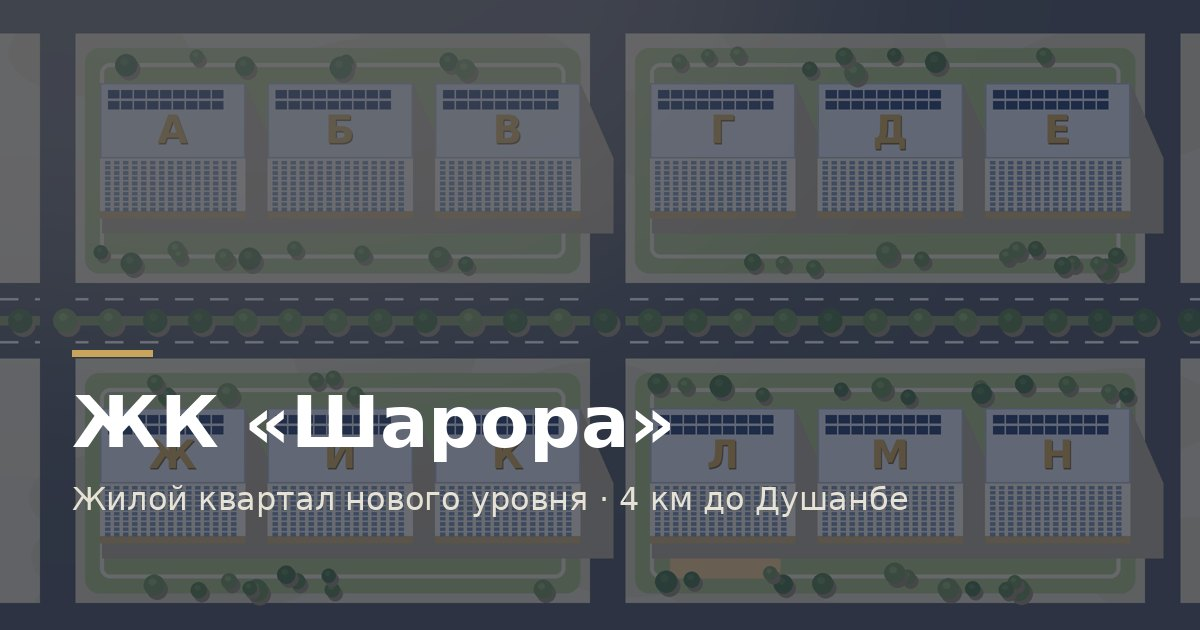
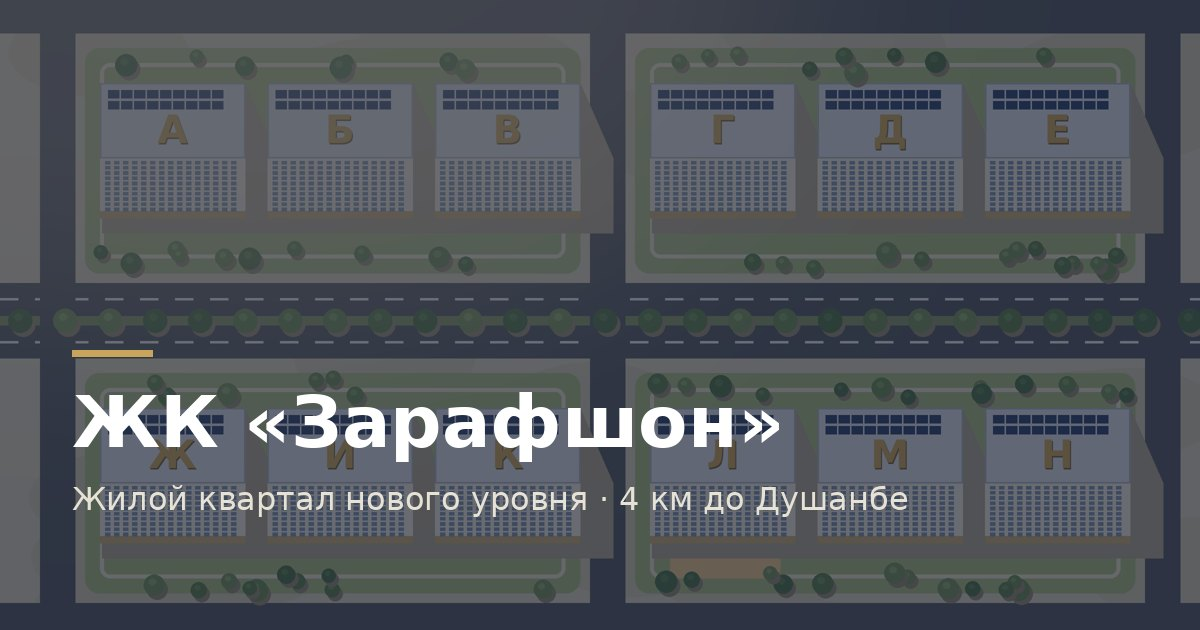
Rename brand Sharora to Zarafshon

Changed region(s): [[0.2467, 0.6032, 0.6475, 0.754]]

diff --git a/frontend/src/content/site.ts b/frontend/src/content/site.ts
@@ -29,8 +29,8 @@ export type FeatureIcon =
 
 export const site = {
   brand: {
-    name: "Sharora Sokhtmon",
-    project: { ru: "ЖК «Шарора»", tg: "МИ «Шарора»" } satisfies Localized,
+    name: "Zarafshon Sokhtmon",
+    project: { ru: "ЖК «Зарафшон»", tg: "МИ «Зарафшон»" } satisfies Localized,
     logo: "/logo.svg",
   },
 
@@ -48,8 +48,8 @@ export const site = {
     telegram: "https://t.me/+992206431001", // TODO: replace with the company's Telegram username
     hours: { ru: "Пн–Сб, 9:00–18:00", tg: "Дш–Шн, 9:00–18:00" } satisfies Localized,
     greeting: {
-      ru: "Здравствуйте! Хочу узнать о квартирах в ЖК «Шарора».",
-      tg: "Ассалому алейкум! Мехоҳам дар бораи хонаҳои МИ «Шарора» маълумот гирам.",
+      ru: "Здравствуйте! Хочу узнать о квартирах в ЖК «Зарафшон».",
+      tg: "Ассалому алейкум! Мехоҳам дар бораи хонаҳои МИ «Зарафшон» маълумот гирам.",
     } satisfies Localized,
     /** `{unit}` → "Хонаи 2, Блок А, Этаж 2, 89.70 м²" */
     unitGreeting: {
@@ -84,7 +84,7 @@ export const site = {
   },
 
   hero: {
-    eyebrow: { ru: "Sharora Sokhtmon · Шарора" } satisfies Localized,
+    eyebrow: { ru: "Zarafshon Sokhtmon · Зарафшон" } satisfies Localized,
     badge: {
       ru: "Новый жилой квартал · 4 км от Душанбе",
       tg: "Маҳаллаи нави истиқоматӣ · 4 км аз Душанбе",
@@ -107,7 +107,7 @@ export const site = {
     // TODO(client): renders from the design mock-up — replace with the project's own visuals.
     image: "/renders/hero.jpg",
     imageAlt: {
-      ru: "Вечерний вид на жилые блоки комплекса «Шарора» на фоне гор",
+      ru: "Вечерний вид на жилые блоки комплекса «Зарафшон» на фоне гор",
     } satisfies Localized,
     facts: [
       {
@@ -161,7 +161,7 @@ export const site = {
     ] satisfies Localized[],
     image: "/renders/about.jpg",
     imageAlt: {
-      ru: "Двор с фонтаном и фасады жилых блоков комплекса «Шарора»",
+      ru: "Двор с фонтаном и фасады жилых блоков комплекса «Зарафшон»",
     } satisfies Localized,
     developerLabel: { ru: "Застройщик", tg: "Сохтмончӣ" } satisfies Localized,
     safety: { ru: "Безопасность", tg: "Амният" } satisfies Localized,
@@ -190,7 +190,7 @@ export const site = {
     } satisfies Localized,
     image: "/renders/masterplan.jpg",
     imageAlt: {
-      ru: "Генеральный план ЖК «Шарора»: 12 жилых блоков с буквами на крышах",
+      ru: "Генеральный план ЖК «Зарафшон»: 12 жилых блоков с буквами на крышах",
     } satisfies Localized,
     // Marker positions in percent of the image; must match the letters on the roofs.
     blocks: [
@@ -416,8 +416,8 @@ export const site = {
       ru: "Комплекс находится в посёлке Шарора — в спокойном районе с быстрым выездом к Душанбе.",
     } satisfies Localized,
     route: { ru: "Построить маршрут", tg: "Масир сохтан" } satisfies Localized,
-    mapTitle: { ru: "Карта расположения ЖК «Шарора»" } satisfies Localized,
-    pinLabel: { ru: "ЖК «Шарора»", tg: "МИ «Шарора»" } satisfies Localized,
+    mapTitle: { ru: "Карта расположения ЖК «Зарафшон»" } satisfies Localized,
+    pinLabel: { ru: "ЖК «Зарафшон»", tg: "МИ «Зарафшон»" } satisfies Localized,
     routeNote: {
       ru: "Быстрый выезд к городской инфраструктуре",
       tg: "Роҳи зуд ба инфрасохтори шаҳр",
@@ -427,8 +427,8 @@ export const site = {
   cta: {
     badge: { ru: "Персональная консультация", tg: "Машварати шахсӣ" } satisfies Localized,
     title: {
-      ru: "Найдите свою квартиру в «Шарора»",
-      tg: "Хонаи худро дар «Шарора» ёбед",
+      ru: "Найдите свою квартиру в «Зарафшон»",
+      tg: "Хонаи худро дар «Зарафшон» ёбед",
     } satisfies Localized,
     text: {
       ru: "Выберите блок, этаж и планировку онлайн — или оставьте номер, и менеджер подберёт варианты и расскажет об условиях рассрочки.",
@@ -458,8 +458,8 @@ export const site = {
 
   footer: {
     rights: {
-      ru: "© 2026 Sharora Sokhtmon. Все права защищены.",
-      tg: "© 2026 Sharora Sokhtmon. Ҳамаи ҳуқуқҳо ҳифз шудаанд.",
+      ru: "© 2026 Zarafshon Sokhtmon. Все права защищены.",
+      tg: "© 2026 Zarafshon Sokhtmon. Ҳамаи ҳуқуқҳо ҳифз шудаанд.",
     } satisfies Localized,
     sections: { ru: "Разделы", tg: "Бахшҳо" } satisfies Localized,
     contacts: { ru: "Контакты", tg: "Тамос" } satisfies Localized,
@@ -488,8 +488,8 @@ export const site = {
 
   seo: {
     title: {
-      ru: "ЖК «Шарора» — жилой квартал нового уровня",
-      tg: "МИ «Шарора»",
+      ru: "ЖК «Зарафшон» — жилой квартал нового уровня",
+      tg: "МИ «Зарафшон»",
     } satisfies Localized,
     description: {
       ru: "12 жилых блоков в посёлке Шарора, 4 км до Душанбе: подземный паркинг, детский сад, торговые центры, солнечные панели и собственная котельная. Выбор квартиры онлайн.",

diff --git a/frontend/src/app/[locale]/admin/login/page.tsx b/frontend/src/app/[locale]/admin/login/page.tsx
@@ -16,7 +16,7 @@ export default function AdminLoginPage() {
         />
         <div className="absolute inset-0 bg-gradient-to-t from-ink via-ink/30 to-ink/40" />
         <div className="absolute right-12 bottom-12 left-12 text-white">
-          <p className="eyebrow text-gold">Sharora Sokhtmon · Residence</p>
+          <p className="eyebrow text-gold">Zarafshon Sokhtmon · Residence</p>
           <p className="mt-4 max-w-md font-display text-4xl leading-tight font-extrabold tracking-tight">
             Управление продажами квартала
           </p>

diff --git a/frontend/src/app/globals.css b/frontend/src/app/globals.css
@@ -1,13 +1,13 @@
 @import "tailwindcss";
 
 /* ------------------------------------------------------------------
-   Sharora design tokens
+   Zarafshon design tokens
    One palette, one radius scale, one shadow system. Components only
    reference these tokens — never raw hex values.
    ------------------------------------------------------------------ */
 
 @theme {
-  /* Navy & champagne-gold palette (Sharora Residence design) */
+  /* Navy & champagne-gold palette (Zarafshon Residence design) */
   --color-ink: #131b2e;
   --color-night: #0a0f1c;
   --color-navy: #1c2641;

diff --git a/frontend/src/components/admin/LoginForm.tsx b/frontend/src/components/admin/LoginForm.tsx
@@ -40,7 +40,9 @@ export function LoginForm() {
           <Image src="/logo.svg" alt="" width={38} height={38} unoptimized />
         </span>
         <div>
-          <p className="font-display text-lg font-extrabold tracking-[0.16em] uppercase">Шарора</p>
+          <p className="font-display text-lg font-extrabold tracking-[0.16em] uppercase">
+            Зарафшон
+          </p>
           <p className="eyebrow text-muted">Кабинет менеджера</p>
         </div>
       </div>

diff --git a/frontend/src/components/motion/Cursor.tsx b/frontend/src/components/motion/Cursor.tsx
@@ -6,7 +6,7 @@ import { useEffect, useRef } from "react";
 import { hasFinePointer, prefersReducedMotion } from "@/lib/capabilities";
 import { gsap } from "@/lib/gsap";
 
-export const CURSOR_EVENT = "sharora:cursor";
+export const CURSOR_EVENT = "zarafshon:cursor";
 /** Lets non-DOM targets (the 3D scene) drive the cursor: `setCursor("view")` / `setCursor(null)`. */
 export function setCursor(mode: "view" | "hover" | null) {
   window.dispatchEvent(new CustomEvent(CURSOR_EVENT, { detail: mode }));

diff --git a/frontend/src/components/layout/Footer.tsx b/frontend/src/components/layout/Footer.tsx
@@ -23,7 +23,7 @@ export async function Footer() {
         aria-hidden
         className="pointer-events-none absolute right-0 -bottom-[0.18em] left-0 text-center font-display text-[22vw] leading-none font-extrabold tracking-tighter text-white/[0.025] select-none"
       >
-        ШАРОРА
+        ЗАРАФШОН
       </p>
 
       <div className="relative container-page grid gap-12 py-16 md:grid-cols-2 lg:grid-cols-[1.3fr_0.8fr_1fr_1fr] lg:py-24">

diff --git a/frontend/src/components/motion/Preloader.tsx b/frontend/src/components/motion/Preloader.tsx
@@ -30,7 +30,7 @@ export function Preloader() {
               <path className="pl-draw" pathLength={1} d="M108 92h104" stroke="#FFDEA4" />
             </g>
             <text x="160" y="132" textAnchor="middle" className="pl-text">
-              ШАРОРА
+              ЗАРАФШОН
             </text>
             <circle className="pl-spark" cx="92" cy="122" r="3" fill="#FFE7B0" />
           </svg>

diff --git a/frontend/src/components/layout/FeedbackMenu.tsx b/frontend/src/components/layout/FeedbackMenu.tsx
@@ -10,7 +10,7 @@ import { site, tr } from "@/content/site";
 import type { Locale } from "@/i18n/routing";
 import { cn } from "@/lib/cn";
 
-export const FEEDBACK_OPEN_EVENT = "sharora:feedback-open";
+export const FEEDBACK_OPEN_EVENT = "zarafshon:feedback-open";
 const OPEN_EVENT = FEEDBACK_OPEN_EVENT;
 
 /** Opens the floating feedback menu from anywhere (e.g. the footer button). */

diff --git a/frontend/src/components/three/CityParts.tsx b/frontend/src/components/three/CityParts.tsx
@@ -17,7 +17,7 @@ import {
 } from "./layout";
 import { getTextures } from "./textures";
 
-const FONT_URL = "/fonts/sharora-letters.typeface.json";
+const FONT_URL = "/fonts/zarafshon-letters.typeface.json";
 const GOLD = "#C9A45C";
 
 // ---------------------------------------------------------------- ground & streets

diff --git a/tools/generate_public_placeholders.py b/tools/generate_public_placeholders.py
@@ -139,7 +139,7 @@ def genplan() -> list[tuple[str, float, float]]:
     overlay = Image.new("RGBA", og.size, (15, 23, 42, 150))
     og = Image.alpha_composite(og, overlay).convert("RGB")
     od = ImageDraw.Draw(og)
-    od.text((72, 380), "ЖК «Шарора»", fill=(255, 255, 255), font=font(72, True))
+    od.text((72, 380), "ЖК «Зарафшон»", fill=(255, 255, 255), font=font(72, True))
     od.text((72, 480), "Жилой квартал нового уровня · 4 км до Душанбе", fill=(230, 226, 214), font=font(32))
     od.rectangle((72, 350, 152, 356), fill=GOLD)
     og.save(PUBLIC / "og.jpg", quality=86, optimize=True)

diff --git a/backend/app/main.py b/backend/app/main.py
@@ -51,9 +51,9 @@ async def lifespan(app: FastAPI) -> AsyncIterator[None]:
 
 
 app = FastAPI(
-    title="Sharora API",
+    title="Zarafshon API",
     version="1.0.0",
-    description="API выбора квартир ЖК «Шарора» и админ-панели менеджеров.",
+    description="API выбора квартир ЖК «Зарафшон» и админ-панели менеджеров.",
     lifespan=lifespan,
 )
 app.state.limiter = limiter

diff --git a/README.md b/README.md
@@ -1,6 +1,6 @@
-# ЖК «Шарора» — сайт и выбор квартир
+# ЖК «Зарафшон» — сайт и выбор квартир
 
-Сайт жилого комплекса «Шарора» (Sharora Sokhtmon): статическая главная страница, интерактивный выбор квартир и админ-панель для менеджеров.
+Сайт жилого комплекса «Зарафшон» (Zarafshon Sokhtmon): статическая главная страница, интерактивный выбор квартир и админ-панель для менеджеров.
 
 | Часть | Стек | Где |
 |---|---|---|
